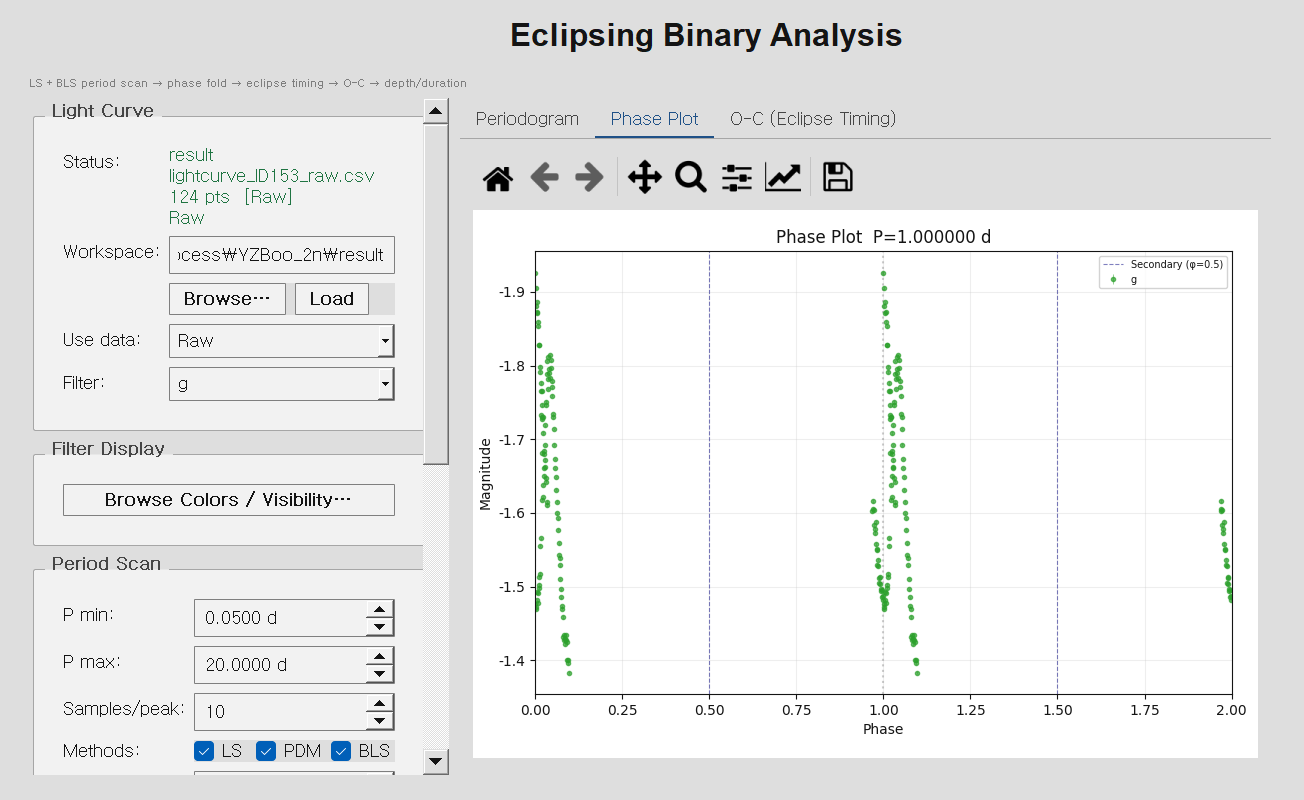
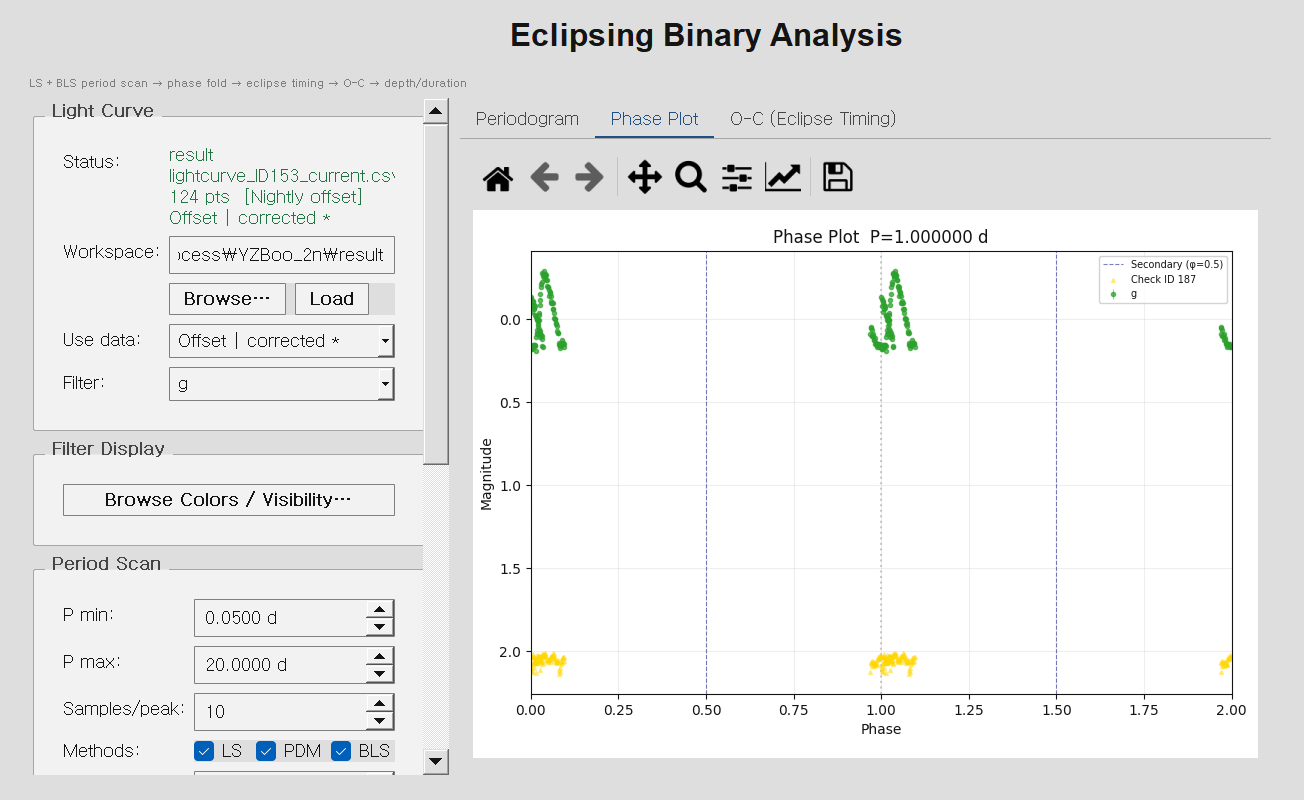
docs(validation): 릴리스 게이트를 열었다 — 자동선택 수정의 실제 값어치
LC 도구(variable_star · transit · eclipsing_binary)의 Run 은
variable_analysis_bundle.json 의 release.status 가 잠근다. 처음엔 BLOCKED 였고
사유가 「비교성 선택 메타 없음 · 체크성 미선택 · 안정도 메타 없음」이었다.

셋 다 Step 8 자동선택이 만드는 것이다. 즉 4b9fc5b 에서 고친 SIMBAD 예외
(_match_simbad_types 의 numpy.bool_)가 살아 있는 동안에는
  자동선택 실패 → 체크성 미정 → 릴리스가 구조적으로 영원히 BLOCKED
였고, 도구 세 개를 아예 못 쓰는 상태였다.

고친 코드로 전 필터 자동선택이 73.8초에 끝났다:
  g 비교성 6 · 체크성 187 (후보 30)
  i 비교성 9 · 체크성 182
  r 비교성 3 · 체크성 273
이어서 Step 9(체크성 광곡선 4종 포함) → Step 10 → Step 11 을 정식 경로로 돌리자
release status: APPROVED.

Run 버튼이 그래도 비활성이던 것은 버그가 아니라 설계였다 —
open_variable_star_tool(handoff) 에 릴리스를 넘겨야 붙고, 메뉴로 열면
standalone(미검증) 모드다. Step 11 의 "Open in Variable Star Tool" 이 그 경로다.
번들을 넘겨 확인: handoff_bundle=ValidatedLightCurveBundle, Run enabled=True
(lc_variable_star_handoff.png).

함께 확인된 것:
- extinction_fit 의 새 메시지가 실제로 원인을 말해 준다 —
  "관측 airmass 는 0.9997~1.2165 (폭 0.2168) 입니다. 소광계수는 airmass 에 대한
   기울기라, 이렇게 폭이 좁으면 결정할 수 없습니다."
- 워크스페이스 타깃 이름 정정이 창 제목에 반영된다(M13 - Analyze Cluster Structure).

내 헤드리스 러너 결함도 하나 고쳤다 — lc_step9.py 가 인자 없이 돌면 기본값
(타깃 115)으로 엉뚱한 광곡선을 만들었다. 이제 인자를 비우면 lc_selection 의
저장된 선택을 그대로 쓴다.

diff --git a/validation/gui_tools/TOOLS_RUN_REPORT.md b/validation/gui_tools/TOOLS_RUN_REPORT.md
@@ -179,6 +179,65 @@ Step 10 `offset` 디트렌드 → Step 11 (필터 `all`, 364점) 결과다.
 확정이 아니다. 처리 경로도 다르다(파이프라인은 밤별 offset 디트렌드, 손 계산은
 필터별 중앙값 정규화).
 
+### 6.5 릴리스 게이트를 열었다 — SIMBAD 수정의 진짜 값어치
+
+LC 도구(variable_star · transit · eclipsing_binary)의 Run 버튼은
+`variable_analysis_bundle.json` 의 `release.status` 가 걸어 잠근다. 처음엔
+**BLOCKED** 였고 사유가 이랬다.
+
+```
+g: comparison selection metadata is missing
+g: no check star is selected
+g: comparison stability metadata is missing        (i, r 도 동일)
+```
+
+셋 다 **Step 8 자동선택이 만드는 것**이다. 즉 §2.1 에서 고친 SIMBAD 예외
+(`_match_simbad_types` 의 numpy.bool_)가 살아 있는 동안에는 자동선택이 죽고 →
+체크성이 안 정해지고 → **릴리스가 구조적으로 영원히 BLOCKED** 였다. 도구 세 개를
+아예 못 쓰는 상태였다는 뜻이다.
+
+고친 코드로 전 필터 자동선택을 돌리니 73.8초에 끝났다.
+
+| 필터 | 비교성 | 체크성 | 후보 |
+|---|---:|---:|---:|
+| g | 6 | 187 | 30 |
+| i | 9 | 182 | — |
+| r | 3 | 273 | — |
+
+이어서 Step 9(광곡선, 체크성 광곡선 4종 포함) → Step 10(디트렌드) →
+Step 11(주기)을 정식 경로로 돌리자 **`release status: APPROVED`** 가 됐다.
+
+> 그 과정에서 내 헤드리스 러너의 결함도 하나 고쳤다 — `lc_step9.py` 가 인자를
+> 안 주면 기본값(타깃 115)을 쓰고 있어 엉뚱한 별로 광곡선을 만들었다. 인자를
+> 비우면 `lc_selection` 의 저장된 선택을 그대로 쓰도록 바꿨다.
+
+### 6.6 Run 버튼이 계속 비활성이던 이유 — 버그가 아니라 설계다
+
+릴리스가 APPROVED 인데도 `variable_star` 의 Run 이 비활성이었다. 추적해 보니
+
+```python
+def open_variable_star_tool(self, handoff: dict | None = None):
+    ...
+    if handoff:
+        self.varstar_window.apply_period_handoff(handoff)
+```
+
+**메뉴에서 열면 `handoff=None`** 이라 standalone(미검증) 모드로 뜬다. 검증된
+릴리스를 물고 열려면 Step 11 의 **`Open in Variable Star Tool`** 버튼을 거쳐야
+한다 — 「검증되지 않은 자료로 고급 분석을 돌리지 못하게」 하는 의도된 게이트다.
+
+번들을 넘겨 직접 확인했다.
+
+```
+release: APPROVED
+handoff_bundle: ValidatedLightCurveBundle
+버튼 [Run] enabled=True          ← 활성화
+```
+
+`lc_variable_star_handoff.png` 가 그 상태의 캡처다. 즉 **메뉴로 연 창의 Run 이
+비활성인 것은 정상**이고, 앞 절들에서 「Run 비활성」으로 적은 것들도 같은
+이유다(transit · eclipsing_binary 동일).
+
 ## 7. 산출물
 
 ```
